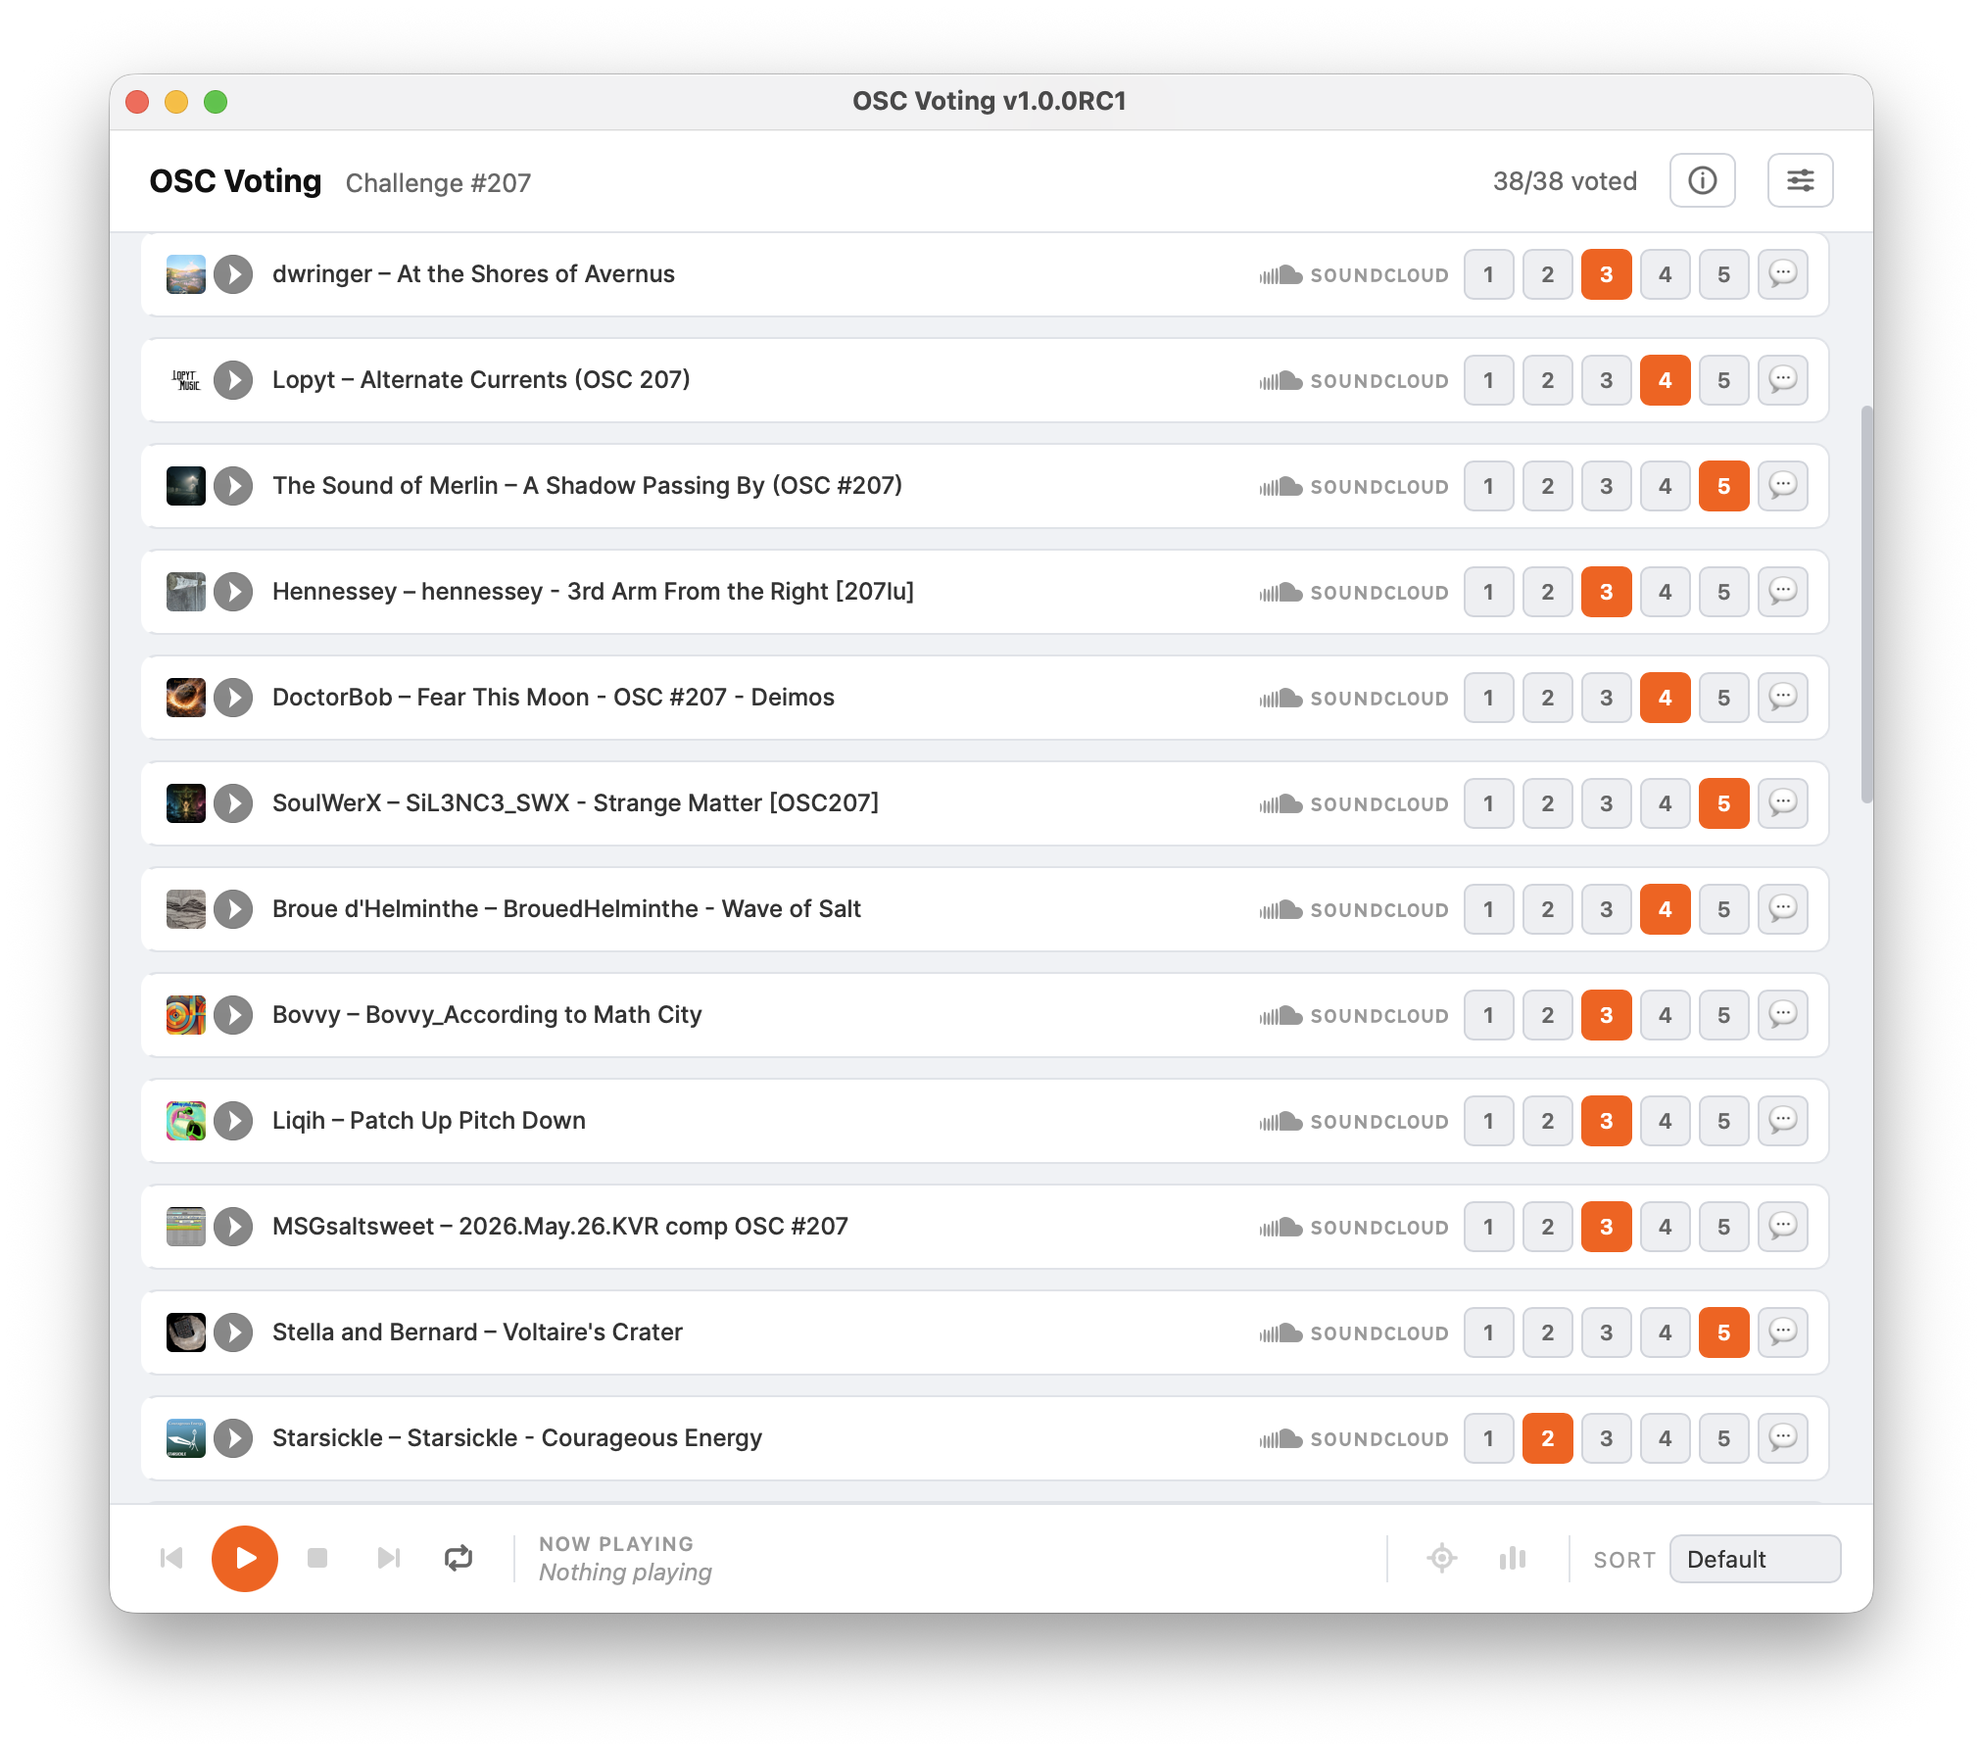
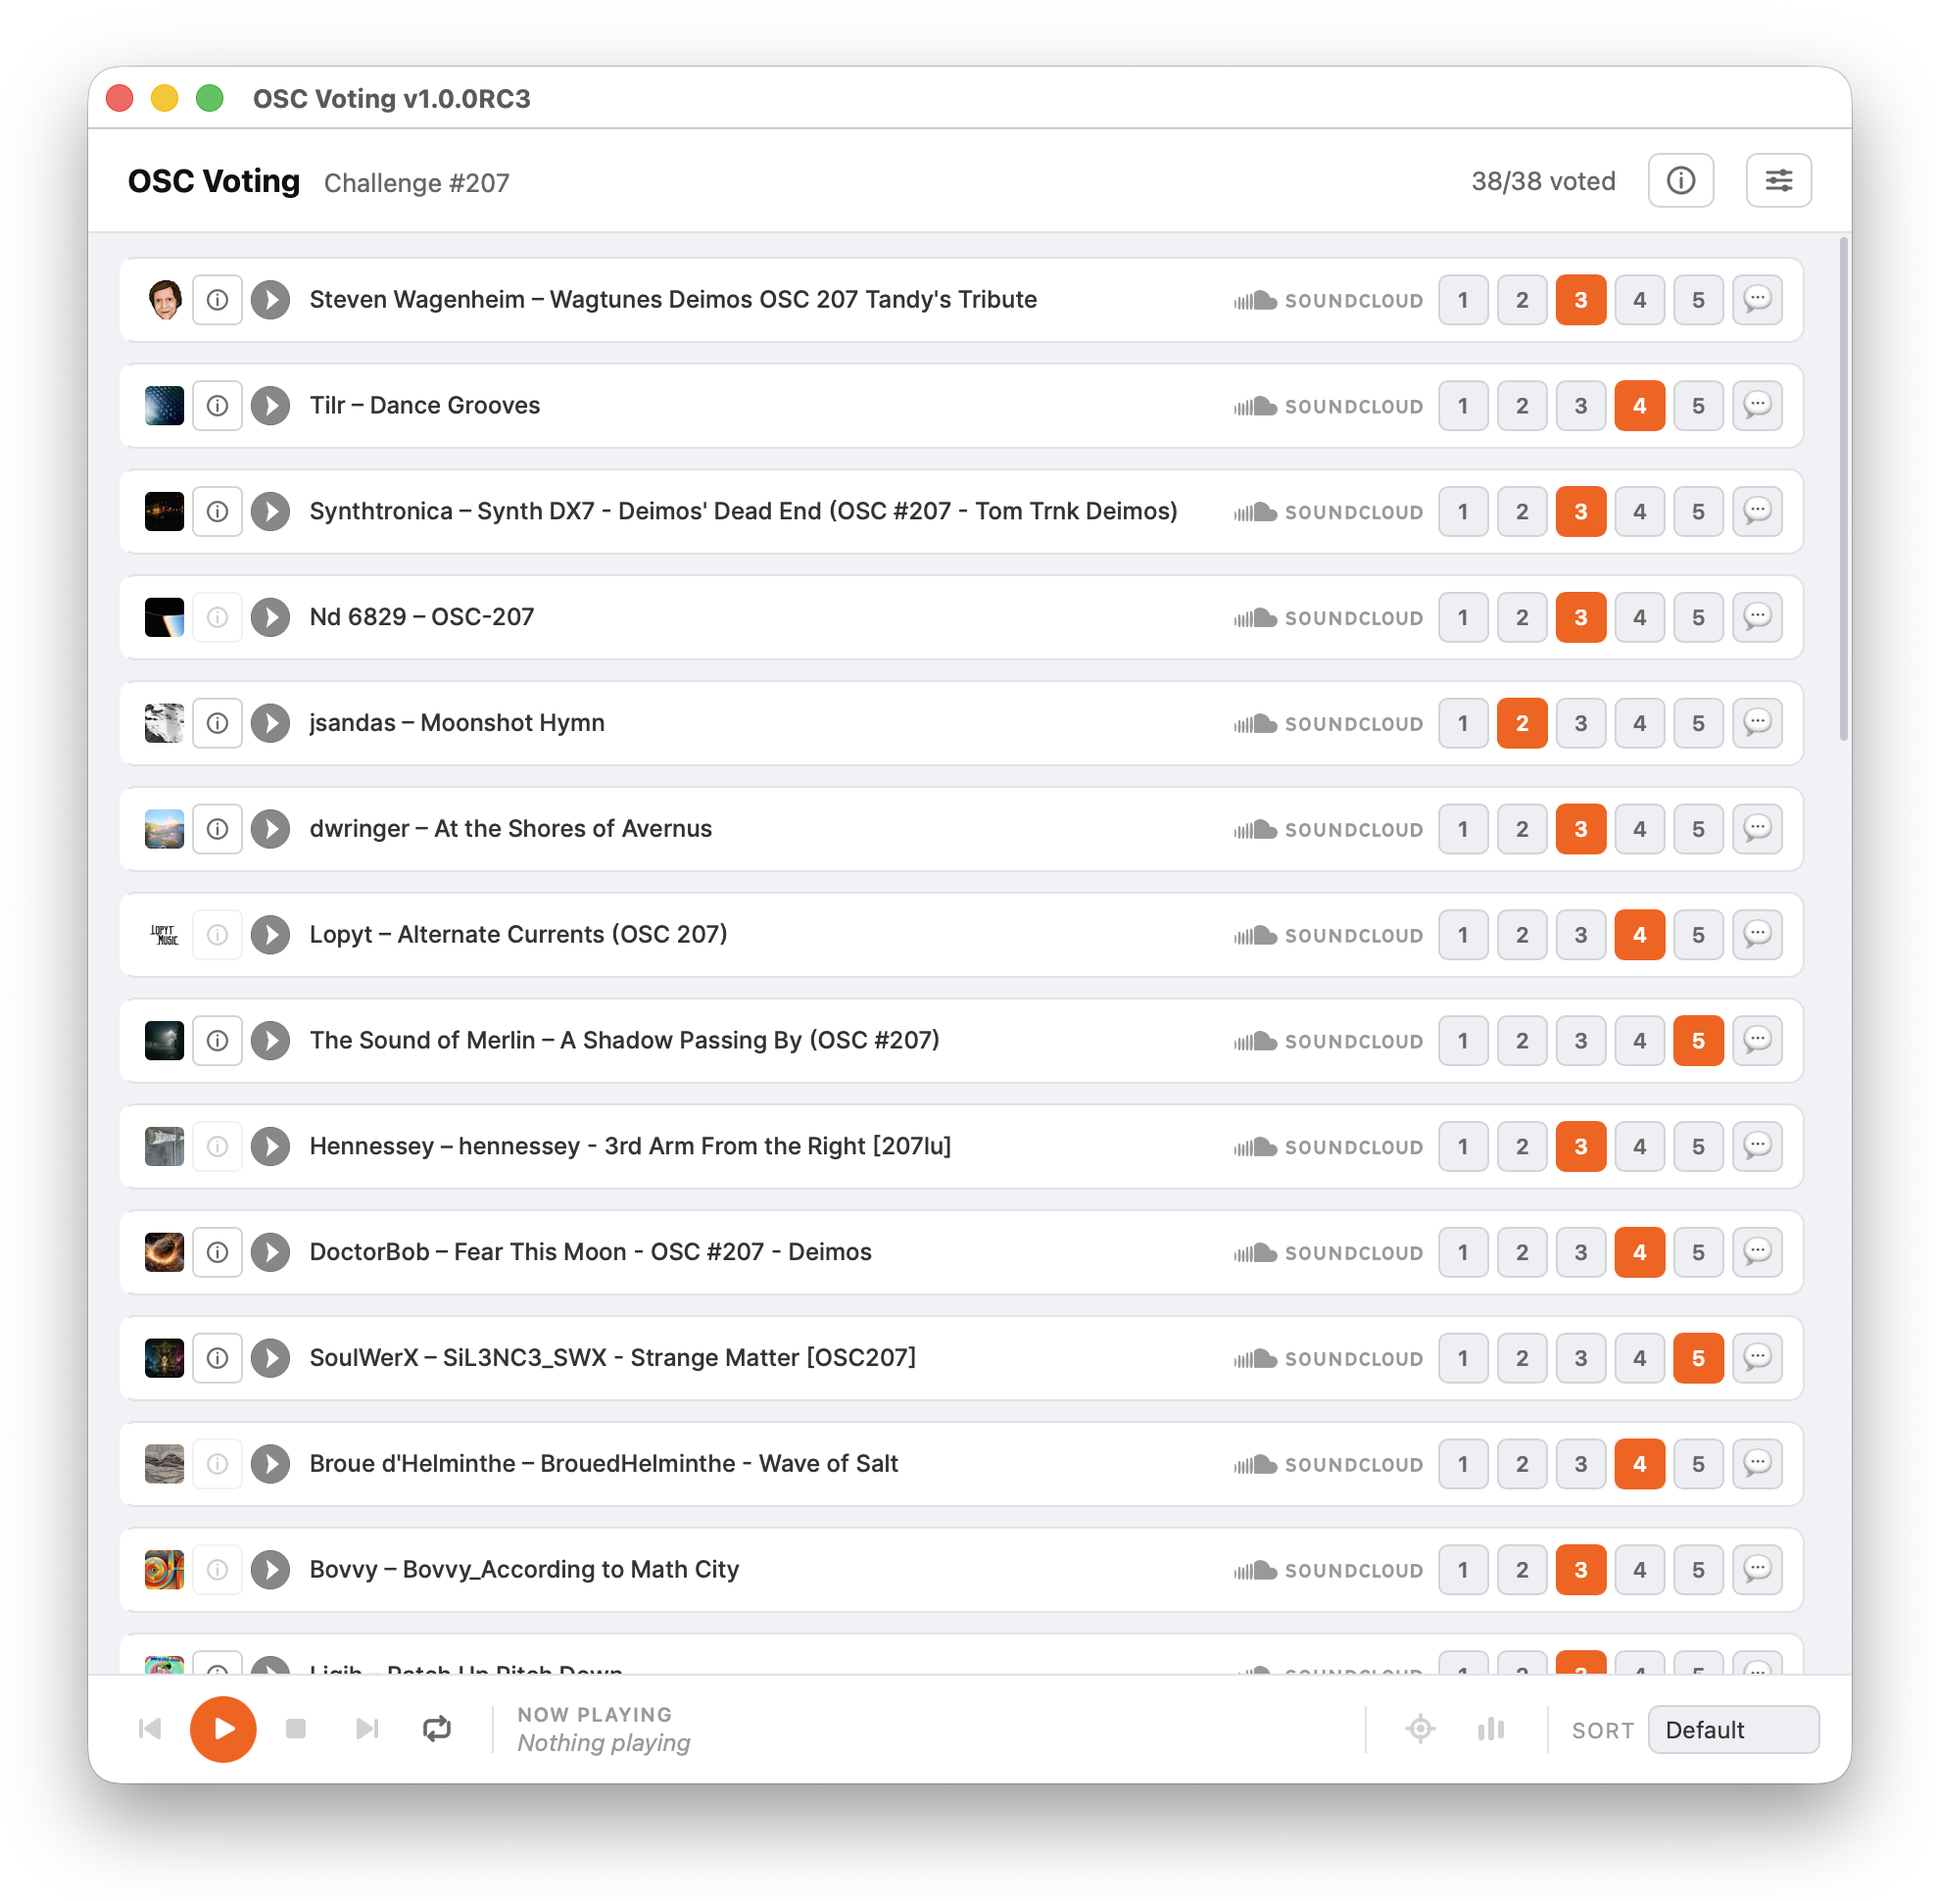
readme updated

Changed region(s): [[0.0309, 0.0309, 0.957, 0.9579], [0.4322, 0.0309, 0.5865, 0.0618]]

diff --git a/README.md b/README.md
@@ -2,28 +2,34 @@
 
 A companiond desktop app for voting in the [One Synth Challenge](https://onesynthchallenge.org) (OSC) — a synth music competition hosted on the [KVR Audio forum](https://www.kvraudio.com/forum/viewforum.php?f=1).
 
-> Uses the OSC site's API. All credit to the OSC creators for building and running the platform.
+> Uses the OSC website's API. Full credit to the OSC creators for building and maintaining the platform.
+
+## Features
+
+The original voting app uses drag-and-drop SoundCloud players to assign votes. While it works well, I found it a bit cumbersome when reviewing larger song lists. This application was created as an alternative workflow, with a focus on:
+
+- **simplified voting**
+- **playlist-style playback**
+- **easier commenting**
 
 <img src="docs/screenshot.gif" width="40%"><img src="docs/screenshot-minimal.png" width="50%">
 <img src="docs/settings.png" width="50%"><img src="docs/behind-the-track.png" width="50%">
 
-## Features
+**Additional features:**
 
-- **Voting** — Pick vote for any song at any time without effort
-- **Comments** — 💬 opens the SoundCloud track page in your browser at the current playback position
-- **Track description** — ⓘ shows the artist's track description (when available) in a popup
-- **Playlist playback** — Auto advance to the next song, looping the playlist or the current song
-- **Transport bar** — play/pause, stop, previous/next, loop mode (song / playlist / off)
-- **Player size** — three sizes available (Minimal / Medium / Large)
+- **Comments** — 💬 opens the SoundCloud track page in your browser at the current playback position allowing enter the comment
+- **Behind the track** — ⓘ displays the artist's track description (when available) in a popup
+- **Playlist playback** — automatically advances to the next song, with options to loop the playlist or the current track
+- **Transport controls** — play/pause, stop, previous/next, and loop modes (track / playlist / off)
+- **Player size** — choose between Minimal, Medium, and Large layouts
 - **Keyboard shortcut** — Space toggles play/pause
+- **Follow playback** — automatically scrolls to the currently playing song when advancing through the playlist (optional). You can also jump to the current song at any time.
+- **Jump to unvoted** — optionally jumps to the first unvoted song on startup. You can also trigger this manually at any time.
+- **Sorting** — by default order, vote score (high/low), or title
+- **Auto-login** — saves credentials and restores the session on the next launch
+- **Theme** — Dark, Light, or System
 
-- **Follow playback** — list scrolls to the currently playing song on auto-advance (optional). Button to jump to played song at any time
-- **Jump to unvoted** — jumps to the first unvoted song on application start (optional). Button to jump to the first unvoted song at any time
-- **Sort** — by default order, votes (high/low), or title
-- **Auto-login** — saves credentials and restores the session on next launch
-- **Theme** — Dark / Light / System
-
-> :bulb: Voting comments are posted on the SoundCloud page (SC doesn't expose a comments API), so the 💬 button opens it in a browser. Note: the SC page will start playing the track — press Space or mute the browser tab.
+> 💡 Comments are posted directly on SoundCloud (its API does not provide comment functionality), so the 💬 button opens the track page in your browser. Note that SoundCloud will begin playing the track automatically - press Space or mute the browser tab if needed.
 
 ## Download
 
@@ -95,13 +101,17 @@ On older distros shipping only WebKit 4.0 (Ubuntu 22.04, RHEL 9), remove `"build
 ```bash
 git clone https://github.com/michal-bartak/OSC-Voting.git
 cd OSC-Voting
-wails build -platform linux/amd64   # or: darwin/universal  windows/amd64
+make build        # build for the current platform
+make dev          # hot-reload dev server
 ```
 
-Output lands in `build/bin/`. For development with hot reload:
+Or invoke Wails directly if you prefer:
 ```bash
+wails build -platform linux/amd64   # or: darwin/universal  windows/amd64
 wails dev
 ```
+
+Output lands in `build/bin/`. The Makefile also provides `make build-linux` and `make build-windows` for cross-platform targets, though cross-compilation requires the matching toolchain and is best left to CI.
 
 ---
 
